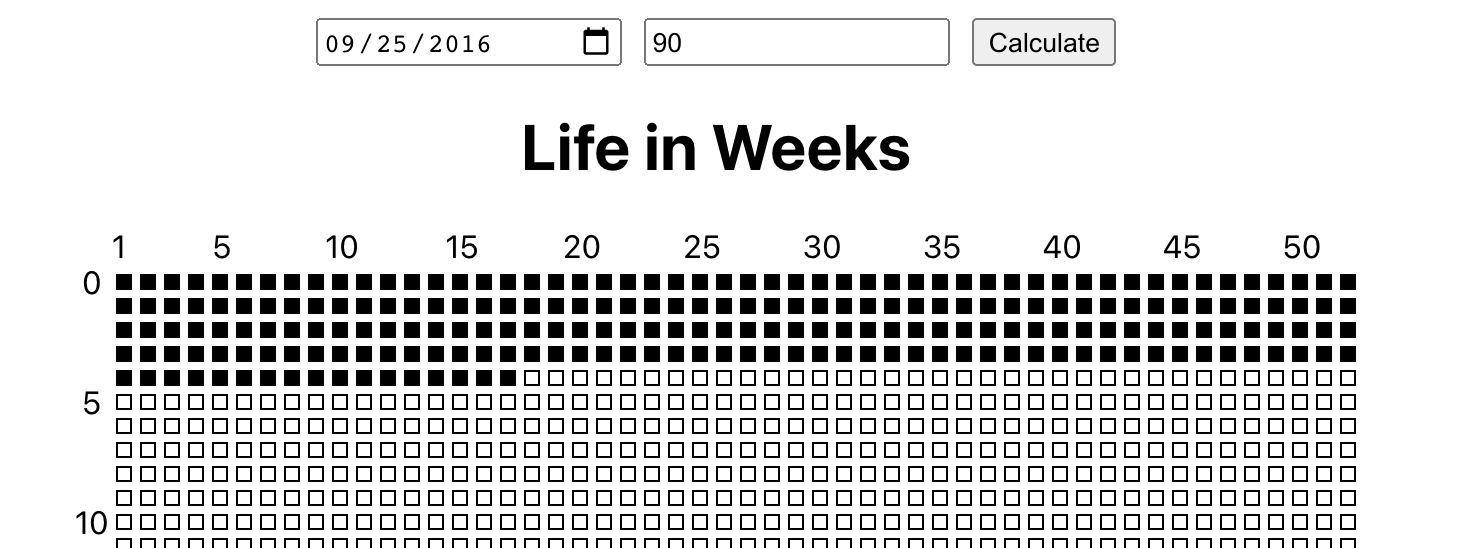
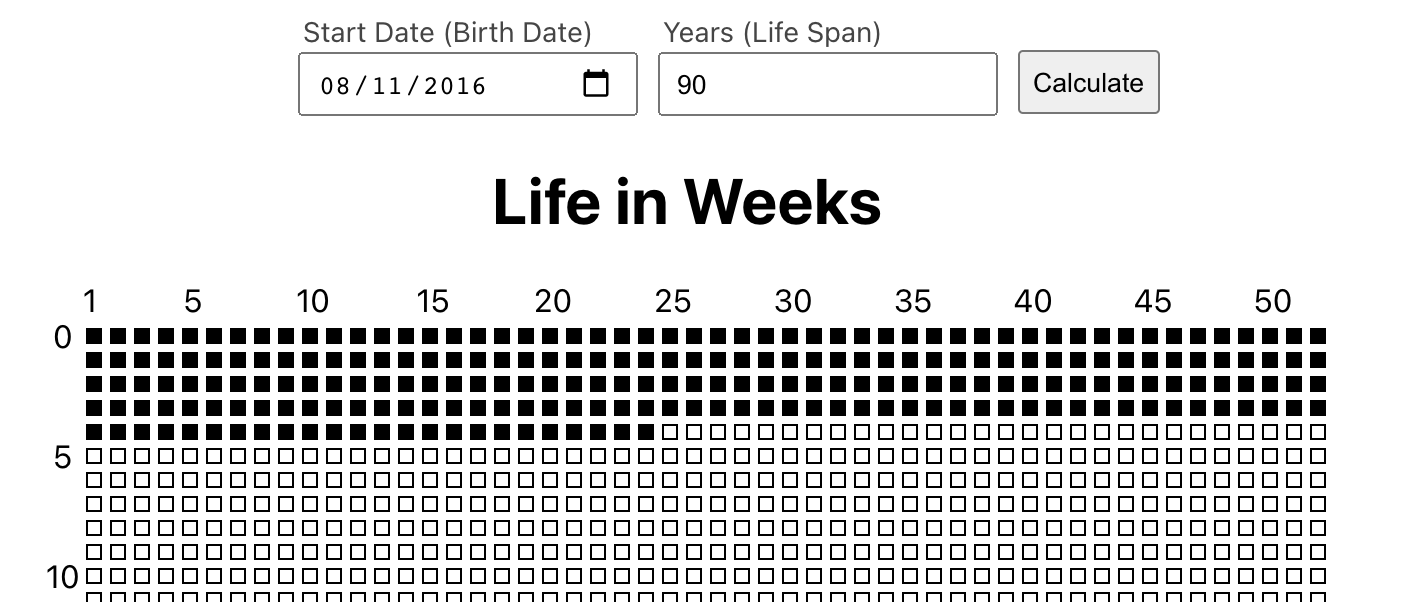
adjust inputs labels and styles

diff --git a/src/App.tsx b/src/App.tsx
@@ -61,8 +61,14 @@ export const App: FC = () => {
   return (
     <div className="App">
       <div className="FormContainer">
-        <input type="date" placeholder="Role Start Date" onChange={e => updateStartDate(e)} />
-        <input type="number" placeholder="90" onChange={e => updateYears(e)} />
+        <div className="Label">
+          <label>Start Date (Birth Date)</label>
+          <input className="Input" type="date" placeholder="Role Start Date" onChange={e => updateStartDate(e)} />
+        </div>
+        <div className="Label">
+          <label>Years (Life Span)</label>
+          <input type="number" placeholder="90" onChange={e => updateYears(e)} />
+        </div>
         <button onClick={() => updateCalculatedValues(years, startDate)}>Calculate</button>
       </div>
       <h1>

diff --git a/src/App.css b/src/App.css
@@ -66,3 +66,23 @@
   width: 600px;
   margin: auto;
 }
+
+label {
+  font-size: 14px;
+  color: rgb(69, 69, 69);
+    justify-self: start;
+    display: flex;
+    margin: 0px 8px;
+}
+
+input {
+  height: 20px;
+  width: 150px;
+  padding: 4px 8px;
+  margin: 2px 5px;
+}
+
+button {
+  height: 32px;
+  margin: 18px 0px 0px 5px;
+}
